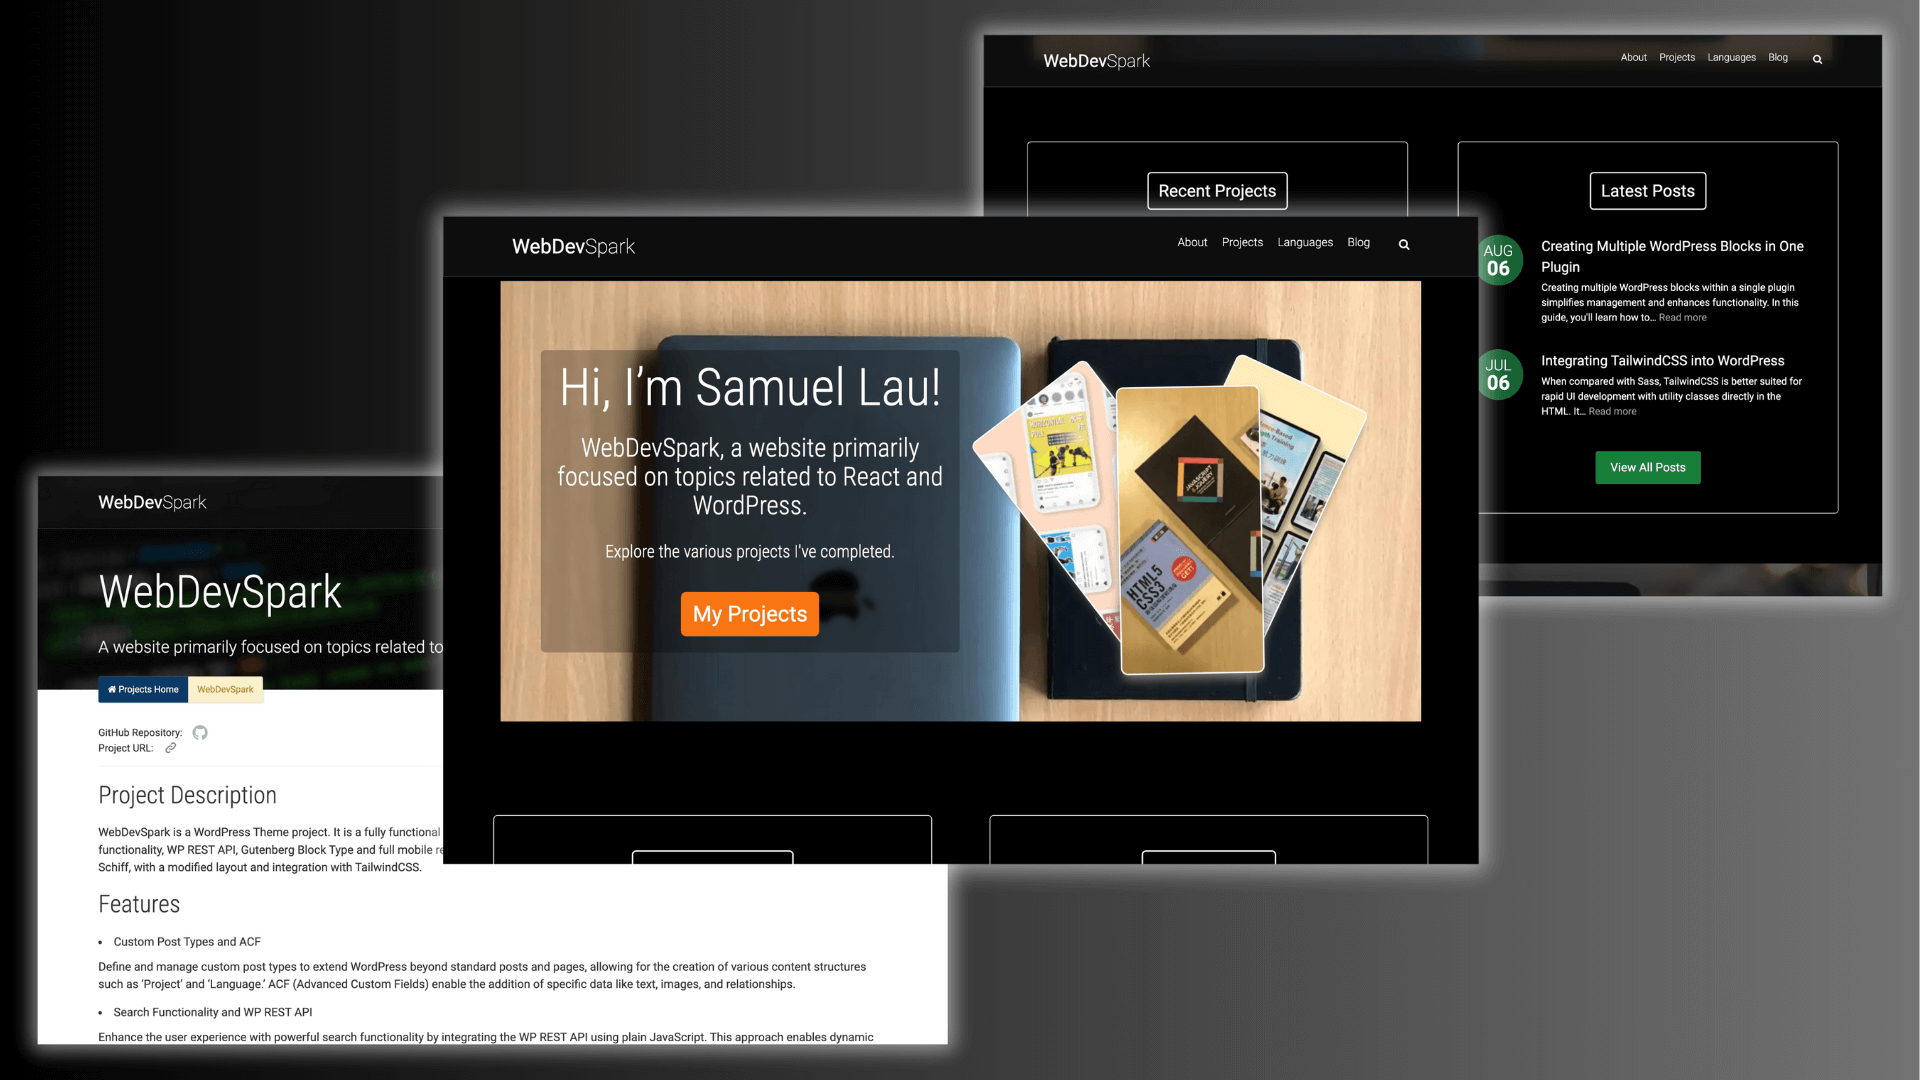
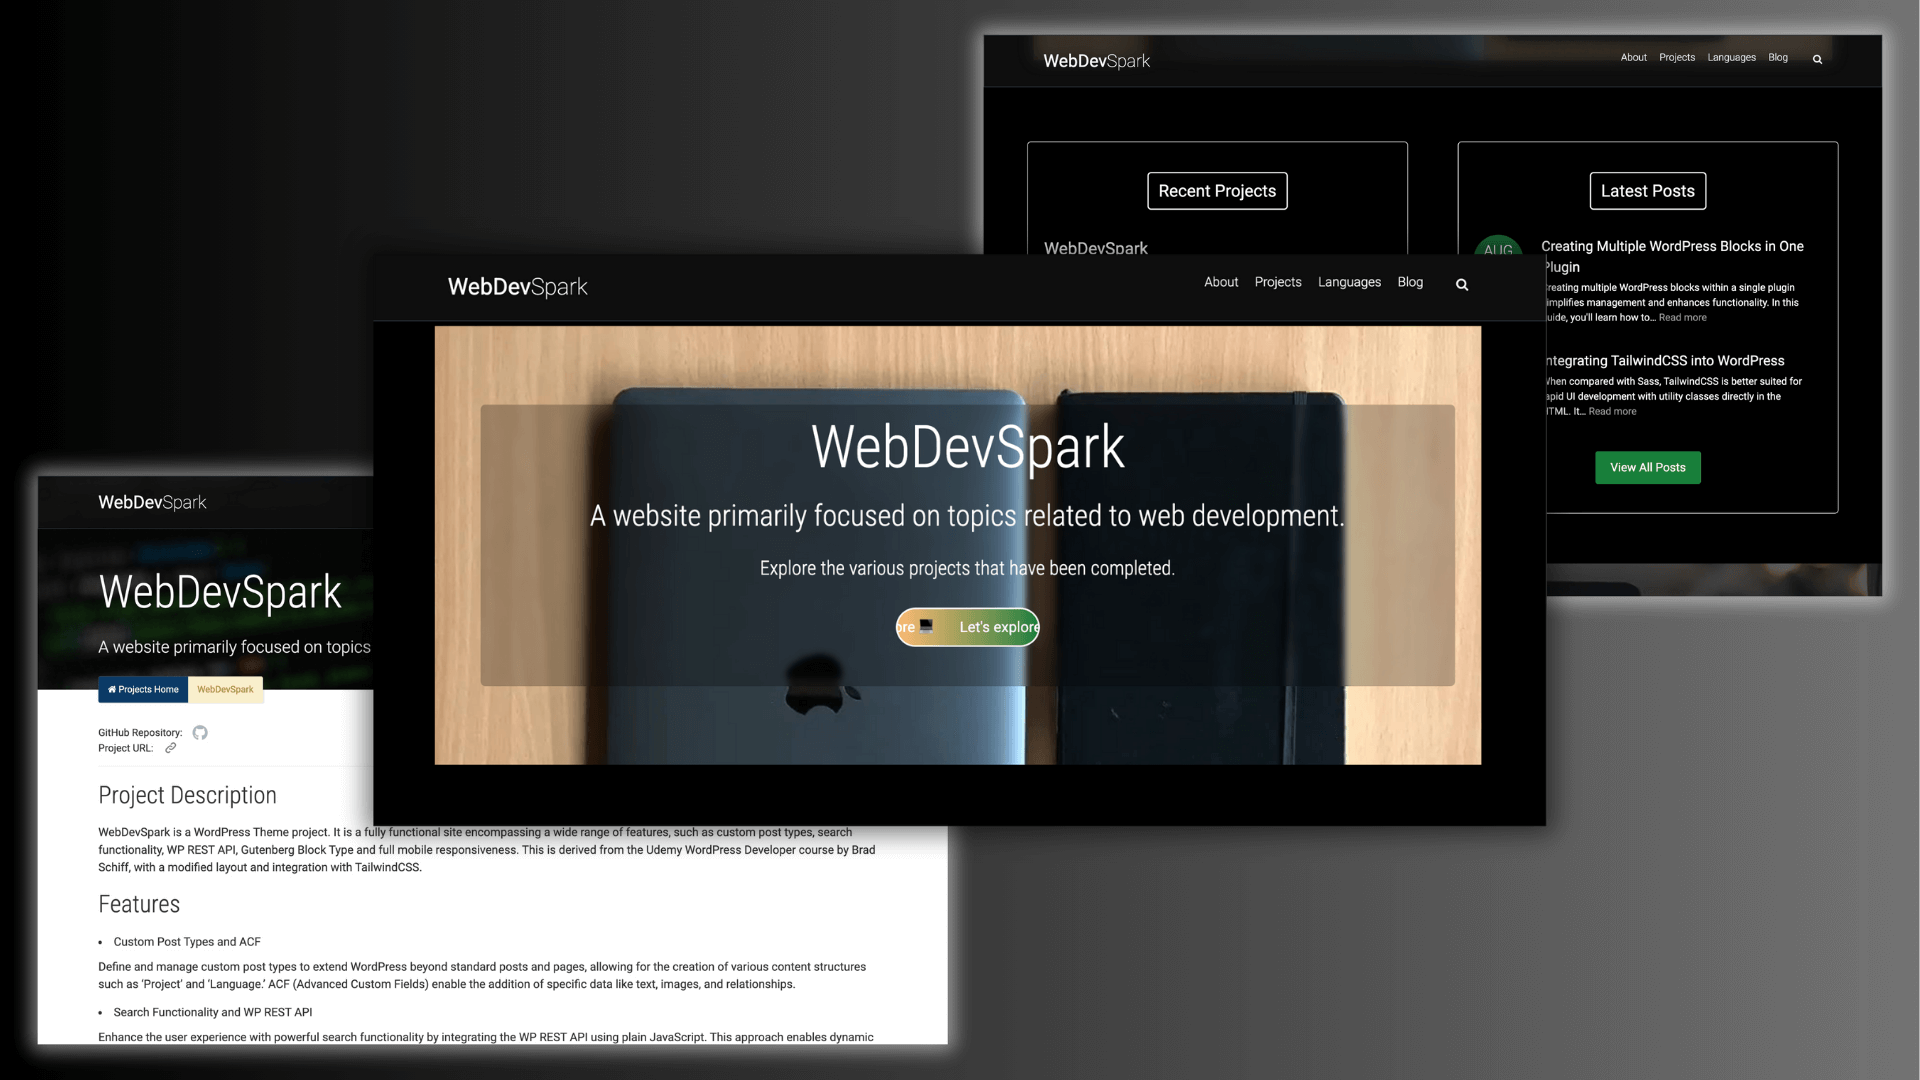
Update project image of webdevspark

Changed region(s): [[0.1875, 0.1833, 0.8125, 0.825]]

diff --git a/app/projects/webdevspark/page.jsx b/app/projects/webdevspark/page.jsx
@@ -47,7 +47,7 @@ const projectDetails = {
   description:
     'WebDevSpark is a WordPress Theme project. It is a fully functional site encompassing a wide range of features, such as custom post types, search functionality, WP REST API, Gutenberg Block Type and full mobile responsiveness. This is derived from the Udemy WordPress Developer course by Brad Schiff, with a modified layout and integration with TailwindCSS.',
   url: 'https://www.webdevspark.com/',
-  technologies: 'JavaScript, PHP, React.js, TailwindCSS, WordPress',
+  technologies: 'JavaScript, PHP, React.js, TailwindCSS, WordPress, Motion',
   sourceCode: 'https://github.com/Samuellaudev/webdevspark',
 };
 

diff --git a/utils/constants.js b/utils/constants.js
@@ -286,7 +286,8 @@ export const featuredProjects = [
       'PHP',
       'React.js',
       'TailwindCSS',
-      'WordPress'
+      'WordPress',
+      'Motion'
     ],
   },
 ];
